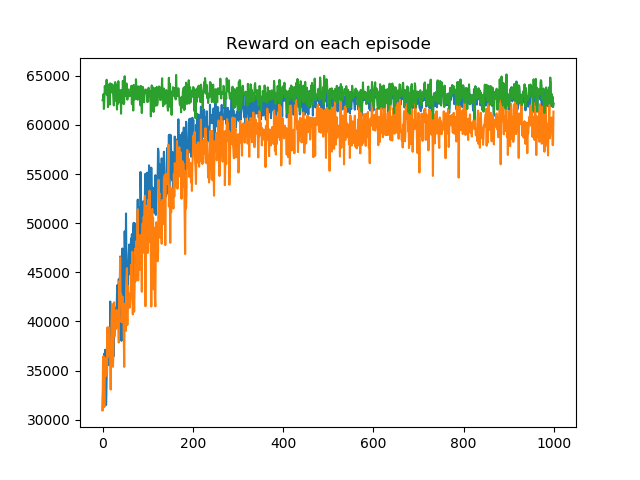
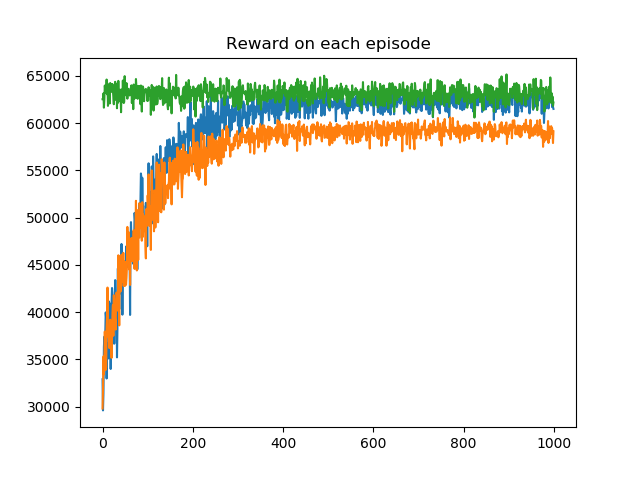
Update replay buffer and remove old sub episode approach

diff --git a/agent_q_extend.py b/agent_q_extend.py
@@ -2,11 +2,14 @@ import numpy as np
 import random
 
 
-class Agent_Q_extend:
+class Agent_Q_Extend:
+    """
+    Agent Q with Q-learning with extra capability on Blackjack environment
+    """
     def __init__(self, epsilon, learning_rate, discount_factor, epsilon_decay):
         self.epsilon = epsilon  # exploration factor
         self.max_epsilon = 1  # maximum exploration factor
-        self.min_epsilon = 0  # minimum exploration factor
+        self.min_epsilon = 0 # minimum exploration factor
         self.epsilon_decay = epsilon_decay  # epsilon decay rate
         self.learning_rate = learning_rate  # learning rate
         self.discount_factor = discount_factor  # discount factor of next state
@@ -14,38 +17,38 @@ class Agent_Q_extend:
         self.possible_action = ['h', 's']
         self.possible_card_distribution = ['excessive low cards', 'more low cards', 'same amount',
                                            'more high cards', 'excessive high cards']
-        self.Q_table = np.zeros((20, 5, 2))  # Q table that keep track of each state-action pair
-        # dividing episode to sub episode (from new set of cards is drawn to user perform 'stick' or cards value over
-        # 21) and store them into a buffer. When sub episode ended, agent train on the buffer and propagate the reward
-        # from end state to all previous states that lead to the reward.
-        self.sub_episode_buffer = []
+        self.Q_table = np.zeros((20, 5, 2))
+        self.replay_buffer = []
+        self.max_replay_buffer_length = 20
+        self.num_replay_buffer_sampling = 5
 
     def print_Q_table(self):
         print(self.Q_table)
 
-    def add_sub_episode_buffer(self, state, action, reward, new_state):
+    def add_replay_buffer(self, state, action, reward, new_state, last):
         """
-        Add current state, action, reward and enw state to sub episode buffer
+        Add current state, action, reward and new state to replay buffer
         """
-        self.sub_episode_buffer.append((state, action, reward, new_state))
+        if len(self.replay_buffer) > self.max_replay_buffer_length:
+            self.replay_buffer.pop(0)
+        self.replay_buffer.append((state, action, reward, new_state, last))
 
-    def flush_sub_episode_buffer(self):
+    def flush_replay_buffer(self):
         """
-        Clear sub episode buffer
+        Clear replay buffer
         """
-        self.sub_episode_buffer.clear()
+        self.replay_buffer.clear()
 
-    def train_sub_episode_buffer(self):
+    def train_replay_buffer(self):
         """
-        when sub episode ended, train the buffer by updating the Q-table in a reversed manner.
-        Therefore propagating the reward at end state to the previous state.
+        Random sampling from replay buffer and retrain them
+        this help agent to train faster
         """
-        last = True
-        for i in reversed(self.sub_episode_buffer):
-            state, action, reward, new_state = i
-            self.update_Q_table(state, action, reward, new_state, last)
-            last = False
-        self.flush_sub_episode_buffer()  # clear buffer after training on sub-episode is completed
+        if len(self.replay_buffer) > self.num_replay_buffer_sampling:
+            replay_buffer = random.sample(self.replay_buffer, self.num_replay_buffer_sampling)
+            for i in replay_buffer:
+                state, action, reward, new_state, last = i
+                self.update_Q_table(state, action, reward, new_state, last)
 
     def unpack_state_to_index(self, state):
         """
@@ -55,20 +58,28 @@ class Agent_Q_extend:
         return self.possible_card_val.index(card_val), self.possible_card_distribution.index(card_distribution)
 
     def update_Q_table(self, state, action, reward, new_state, last=False):
+        """
+        Update state-action value pair in Q-table
+        Since drawing a new set of card and starting a new round is not related to its previous state
+        Therefore, using last flag to control whether to propagate state-action value back to previous state
+        This approach help to reduce irrelevant info / noise when updating state-action value
+        """
         val_index, dis_index = self.unpack_state_to_index(state)
         new_val_index, new_dis_index = self.unpack_state_to_index(new_state)
         action_id = self.possible_action.index(action)
         if last is False:  # update Q-table state-action pair
-            self.Q_table[val_index, dis_index, action_id] += self.learning_rate * (reward + self.discount_factor * np.max(self.Q_table[new_val_index, new_dis_index, :]) - self.Q_table[val_index, dis_index, action_id])
+            self.Q_table[val_index, dis_index, action_id] += self.learning_rate * (
+                        reward + self.discount_factor * np.max(self.Q_table[new_val_index, new_dis_index, :]) -
+                        self.Q_table[val_index, dis_index, action_id])
         else:
             self.Q_table[val_index, dis_index, action_id] += self.learning_rate * reward
 
     def return_action(self, state):
         val_index, dis_index = self.unpack_state_to_index(state)
-        if self.epsilon > random.uniform(0, 1):  # epsilon-greedy policy
-            return random.choice(self.possible_action)  # explore by randomly choosing from possible action
+        if self.epsilon > random.uniform(0, 1):
+            return random.choice(self.possible_action)
         else:
-            return self.possible_action[np.argmax(self.Q_table[val_index, dis_index, :])]  # exploit with greedy policy
+            return self.possible_action[np.argmax(self.Q_table[val_index, dis_index, :])]
 
     def update_epsilon_decay(self, episode):
         """

diff --git a/main.py b/main.py
@@ -1,6 +1,6 @@
 import numpy as np
 from blackjack_env import Blackjack as env
-from agent_q_extend import Agent_Q_extend as ag_q_extend
+from agent_q_extend import Agent_Q_Extend as ag_q_extend
 from agent_rule_based import Agent_rule_based as ag_rule_based
 from agent_q import Agent_Q as ag_q
 import matplotlib.pyplot as plt
@@ -41,28 +41,27 @@ def print_q_table(path):
 
 def agent_Q_extend():
     """
-    Running Agent Q which implemented Q-learning with extend capability on Blackjack environment
+    Running Agent Q with Q-learning with extra capability on Blackjack environment
     :return: list of reward on each episode
     """
-    blackjack = env(deck_number)  # initiate environment
-    agent = ag_q_extend(1, 0.2, 0.2, 0.01)  # initiate Agent Q Extend
+    blackjack = env(deck_number)
+    agent = ag_q_extend(1, 0.2, 0.2, 0.01)
     reward_list = []
 
     for i in range(num_episode):
-        current_state = blackjack.return_current_state()  # starting of new episode, return initial state of environment
+        current_state = blackjack.return_current_state()
         while True:
-            action = agent.return_action(current_state)  # agent perform action
-            new_state, reward, is_done, new_round = blackjack.step(action)  # new state, reward return from environment
-            if is_done is True:  # episode end when all cards are distributed
+            action = agent.return_action(current_state)
+            new_state, reward, is_done, new_round = blackjack.step(action)
+            if is_done is True:
                 break
-            agent.add_sub_episode_buffer(current_state, action, reward, new_state)  # adding state to sub episode buffer
-            if new_round is True:
-                # when new set of card are drawn, update state-action pair based on sub episode buffer
-                agent.train_sub_episode_buffer()
+            agent.update_Q_table(current_state, action, reward, new_state, new_round)  # update state-action pair
+            agent.add_replay_buffer(current_state, action, reward, new_state, new_round)
+            agent.train_replay_buffer()
             current_state = new_state
         reward_list.append(blackjack.total_reward)
-        agent.update_epsilon_decay(i)  # update agent epsilon
-        blackjack.reset()  # reset Blackjack environment
+        agent.update_epsilon_decay(i)
+        blackjack.reset()
     agent.save_Q_table('q_table_q_extend.npy')
     print("last reward for Agent Q Extend is {}".format(reward_list[-1]))
     return reward_list
@@ -74,7 +73,7 @@ def agent_Q():
     :return: list of reward on each episode
     """
     blackjack = env(deck_number)
-    agent = ag_q(1, 0.2, 0.99, 0.01)
+    agent = ag_q(1, 0.2, 0.2, 0.01)
     reward_list = []
 
     for i in range(num_episode):

diff --git a/test.py b/test.py
@@ -10,6 +10,13 @@ ranks = ['ace', 'two', 'three', 'four', 'five', 'six', 'seven',
               'eight', 'nine', 'ten', 'jack', 'queen', 'king']
 
 
+test = [99,1,2,3,4,5]
+test.append(6)
+print(test)
+kkk = random.sample(test, 2)
+print(kkk)
+
+
 # def create_a_deck():
 #     deck = []
 #     for i in ranks:
@@ -23,16 +30,16 @@ ranks = ['ace', 'two', 'three', 'four', 'five', 'six', 'seven',
 #
 # print("")
 
-Q_table = np.load('q_table_q.npy')
-df = pd.DataFrame(np.zeros((20, 5)), columns=possible_dis, index=possible_state)
-
-for val_index, i in enumerate(possible_state):
-    for dis_index, j in enumerate(possible_dis):
-        df[j][i] = possible_action[np.argmax(Q_table[val_index, dis_index, :])]
-
-print(Q_table)
-
-print(df)
+# Q_table = np.load('q_table_q.npy')
+# df = pd.DataFrame(np.zeros((20, 5)), columns=possible_dis, index=possible_state)
+#
+# for val_index, i in enumerate(possible_state):
+#     for dis_index, j in enumerate(possible_dis):
+#         df[j][i] = possible_action[np.argmax(Q_table[val_index, dis_index, :])]
+#
+# print(Q_table)
+#
+# print(df)
 
 # def calculate_deck_current_distribution(num_low_cards, num_high_cards):
 #     difference_threshold = 4
